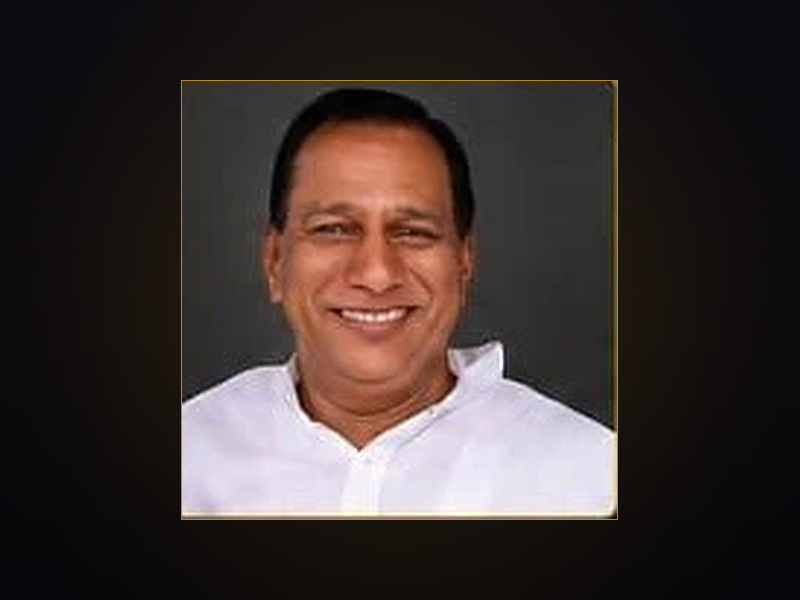
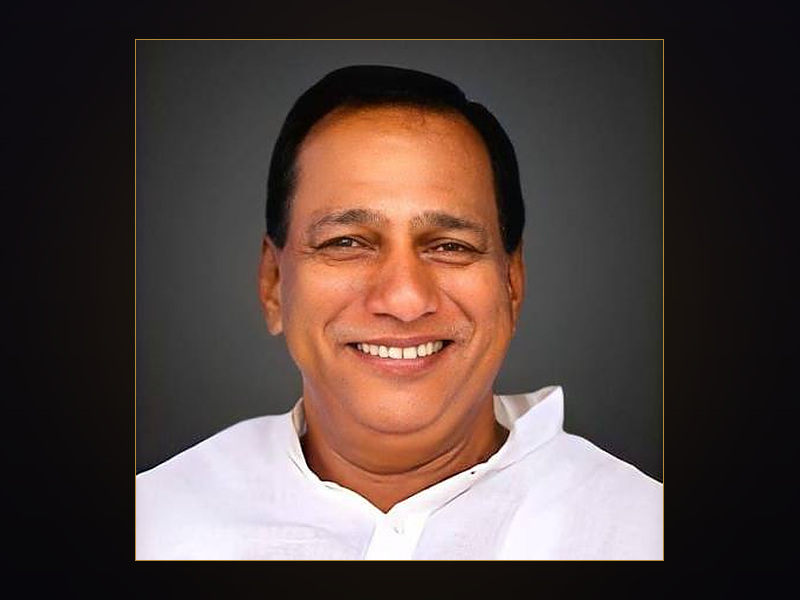
Use the supplied photographs for the guest portraits
The real photographs are far better than what could be recovered from
the poster: Malla Reddy at 450x444 against 149x150, Shekar Master at
1362x1098 against 180x150. Shekar Master's is now a downscale, which
needs no reconstruction at all, and Malla Reddy's is a gentle 1.17x.
The back-projection upscaler goes with them, since nothing needs it.

Neither photograph is the card's 4:3 — one is square, the other 1.24:1
— and cropping them to fill takes the top of one head and all of the
other's shoulders. Each is set on a plate instead, 87% of the card's
height, so nothing is cropped and both are framed alike.

Shekar Master's file carried the poster's gold frame and rounded
corners baked into its edges; those are trimmed before the plate is
built.

Keeps both source files in tools/source/ so the plates can be rebuilt,
and says so in the README instead of the old note asking for originals.

Claude-Session: https://claude.ai/code/session_01RwRrW1xYNpTx1f6NEo215A

diff --git a/tools/portraits.py b/tools/portraits.py
@@ -1,47 +1,53 @@
-"""Lift the two guest portraits out of the event poster and set them on a plate
-that matches the site: near-black ground, a warm glow behind the subject, a gold
-hairline around the photo.
+"""Build the two guest portrait plates from the supplied photographs.
 
-The source crops are ~150px, so the upscale is the whole job. Lanczos alone is
-soft; `sr.back_project` re-derives the detail Lanczos cannot, and only a light
-unsharp is needed afterwards. No median filter before the upscale — at 150px
-that removes real detail along with the compression noise."""
-import sys, pathlib
-sys.path.insert(0, str(pathlib.Path(__file__).parent))
+The guest cards are 4:3, but neither photograph is: Malla Reddy's is square and
+Shekar Master's is 1.24:1. Cropping them to fill the card takes the top of one
+head and all of the other's shoulders, so instead each portrait is set on a
+plate the card's shape — near-black ground, a warm pool of light behind the
+subject, a gold hairline around the photo. Nothing is cropped, both are framed
+the same way, and the treatment matches the event poster's own.
+
+Run from anywhere:  python3 tools/portraits.py
+"""
+import pathlib
 from PIL import Image, ImageFilter, ImageDraw
-from sr import back_project
 
-SRC = '/tmp/claude-0/-home-user-Event-design/6b15921e-a719-5b3a-8c7d-26860e1c3788/images/3.webp'
-OUT = '/home/user/Event-design/assets/images/'
-W, H = 800, 600            # 4:3, matching the guest card
-PH = 438                   # photo height on the plate
+ROOT = pathlib.Path(__file__).resolve().parent.parent
+SRC = ROOT / 'tools' / 'source'
+OUT = ROOT / 'assets' / 'images'
+
+W, H = 800, 600      # the guest card's 4:3
+PH = 520             # portrait height on the plate
 
 VOID, PIT = (0x07, 0x06, 0x0A), (0x14, 0x11, 0x1A)
 GOLD = (0xB0, 0x8A, 0x36)
 
-poster = Image.open(SRC).convert('RGB')
 
-def plate(box, name):
-    src = poster.crop(box)
-    photo = back_project(src, PH / src.height)
-    photo = photo.filter(ImageFilter.UnsharpMask(radius=1.2, percent=60, threshold=2))
-    tw = photo.width
+def plate(src, name):
+    photo = src.resize((round(src.width * PH / src.height), PH), Image.LANCZOS)
+    # Only Malla Reddy's photo is smaller than the plate; a downscale needs no
+    # help, an upscale does.
+    if PH > src.height:
+        photo = photo.filter(ImageFilter.UnsharpMask(radius=1.1, percent=55, threshold=2))
 
-    # Ground: a vertical fade with a warm pool of light behind the subject.
-    plate = Image.new('RGB', (W, H), VOID)
-    d = ImageDraw.Draw(plate)
+    ground = Image.new('RGB', (W, H), VOID)
+    d = ImageDraw.Draw(ground)
     for y in range(H):
         t = y / (H - 1)
         d.line([(0, y), (W, y)], fill=tuple(round(PIT[i] + (VOID[i] - PIT[i]) * t) for i in range(3)))
     glow = Image.new('RGB', (W, H), VOID)
-    ImageDraw.Draw(glow).ellipse([W//2 - 300, 40, W//2 + 300, H - 40], fill=(0x3A, 0x2A, 0x0D))
-    plate = Image.blend(plate, glow.filter(ImageFilter.GaussianBlur(90)), 0.55)
+    ImageDraw.Draw(glow).ellipse([W // 2 - 300, 40, W // 2 + 300, H - 40], fill=(0x3A, 0x2A, 0x0D))
+    ground = Image.blend(ground, glow.filter(ImageFilter.GaussianBlur(90)), 0.55)
 
-    x, y = (W - tw) // 2, (H - PH) // 2
-    plate.paste(photo, (x, y))
-    ImageDraw.Draw(plate).rectangle([x - 1, y - 1, x + tw, y + PH], outline=GOLD, width=1)
-    plate.save(OUT + name, quality=94, subsampling=0, optimize=True)
-    print(name, 'source', src.size, '-> photo', photo.size, 'on', plate.size)
+    x, y = (W - photo.width) // 2, (H - PH) // 2
+    ground.paste(photo, (x, y))
+    ImageDraw.Draw(ground).rectangle([x - 1, y - 1, x + photo.width, y + PH], outline=GOLD, width=1)
+    ground.save(OUT / name, quality=94, subsampling=0, optimize=True)
+    print(name, src.size, '-> portrait', photo.size, 'on', ground.size)
 
-plate((98,  299,  247, 449), 'guest-malla-reddy.jpg')
-plate((1039, 299, 1219, 449), 'guest-shekar-master.jpg')
+
+plate(Image.open(SRC / 'malla-reddy.png').convert('RGB'), 'guest-malla-reddy.jpg')
+# Shekar Master's file carries the poster's gold frame and rounded corners
+# baked into its edges; trim them off before it goes on a plate of its own.
+plate(Image.open(SRC / 'shekar-master.webp').convert('RGB').crop((15, 19, 1377, 1117)),
+      'guest-shekar-master.jpg')

diff --git a/README.md b/README.md
@@ -84,16 +84,15 @@ Three items on the page make factual claims. Please confirm each one:
    of Institutions) and Shekar Master. Johnny Master was an alternative in the
    original brief and has been ruled out; he appears nowhere on the page.
 
-   The two portraits are **lifted from that poster**, where each is printed at
-   about 150 pixels. They have been upscaled and sharpened onto a plate that
-   matches the site, but no amount of processing invents detail that was never
-   captured. If SNK can supply the original photographs, swap them in:
-   `assets/images/guest-malla-reddy.jpg` and `guest-shekar-master.jpg`, 800x600.
+   The portraits come from the photographs SNK supplied, kept in
+   `tools/source/`. `python3 tools/portraits.py` rebuilds the two card images
+   from them; to change a photo, replace the file in `tools/source/` and run
+   that again rather than editing `assets/images/` by hand.
 
    Both photographs belong to whoever took them, and both men control the use
-   of their own likeness. Using them on the poster does not automatically cover
-   using them on a website — worth a sentence in writing from SNK confirming
-   they have that permission.
+   of their own likeness. Appearing on the event poster does not automatically
+   cover a website — worth a sentence in writing from SNK confirming they have
+   that permission.
 
 2. **The record claim.** The page says "record attempt" throughout and never
    claims the record has been approved, sanctioned or awarded. Keep it that way
